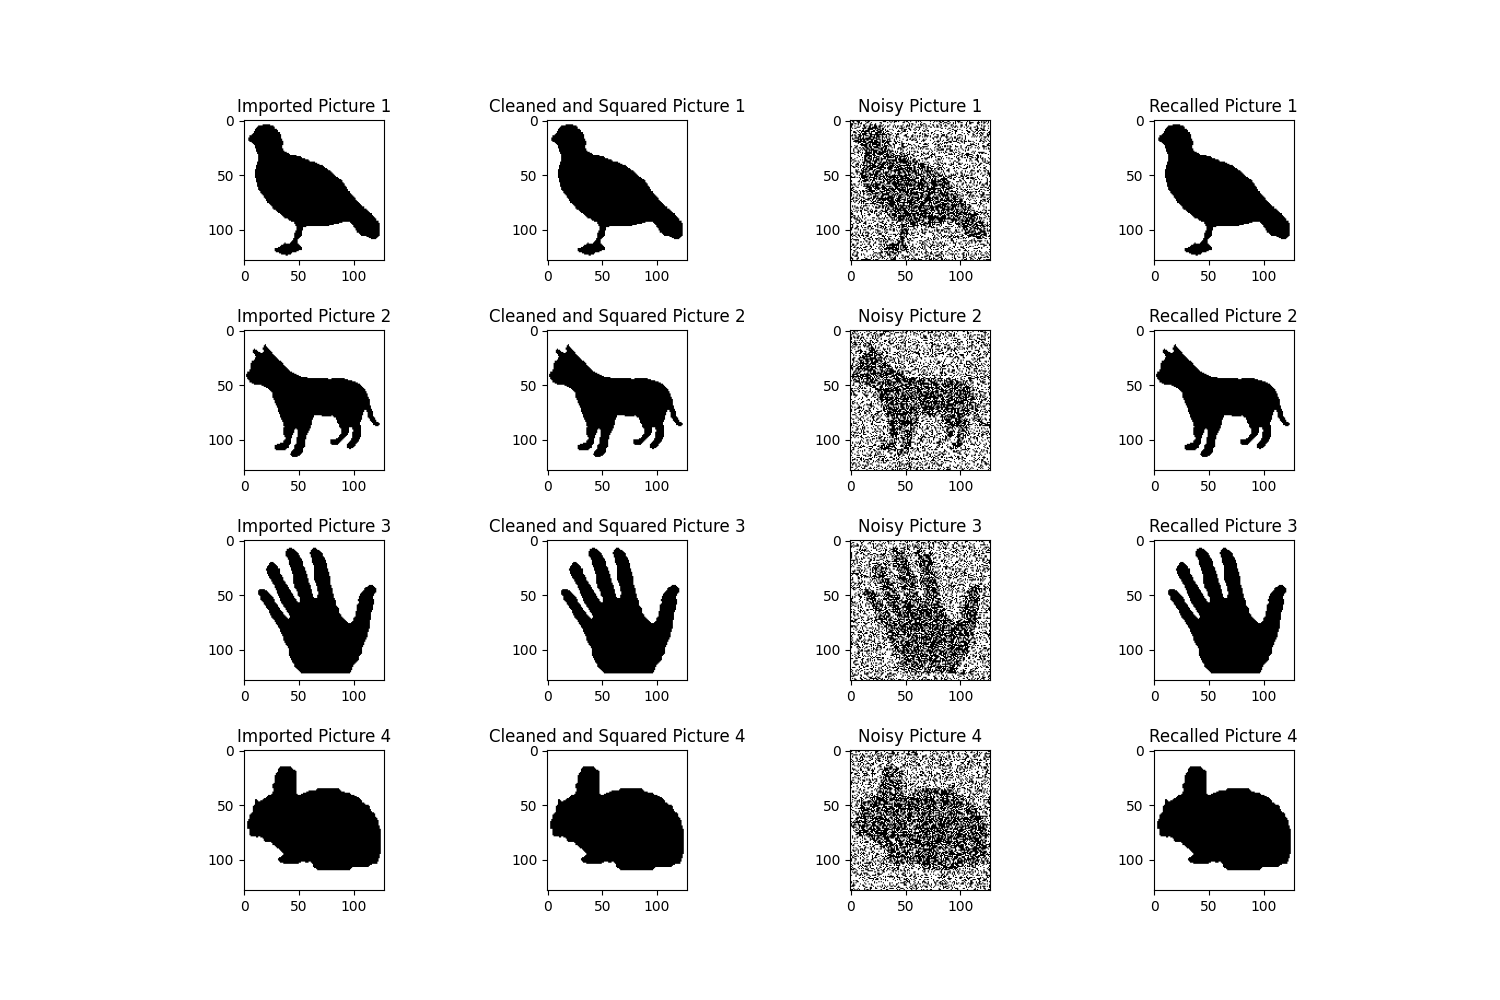
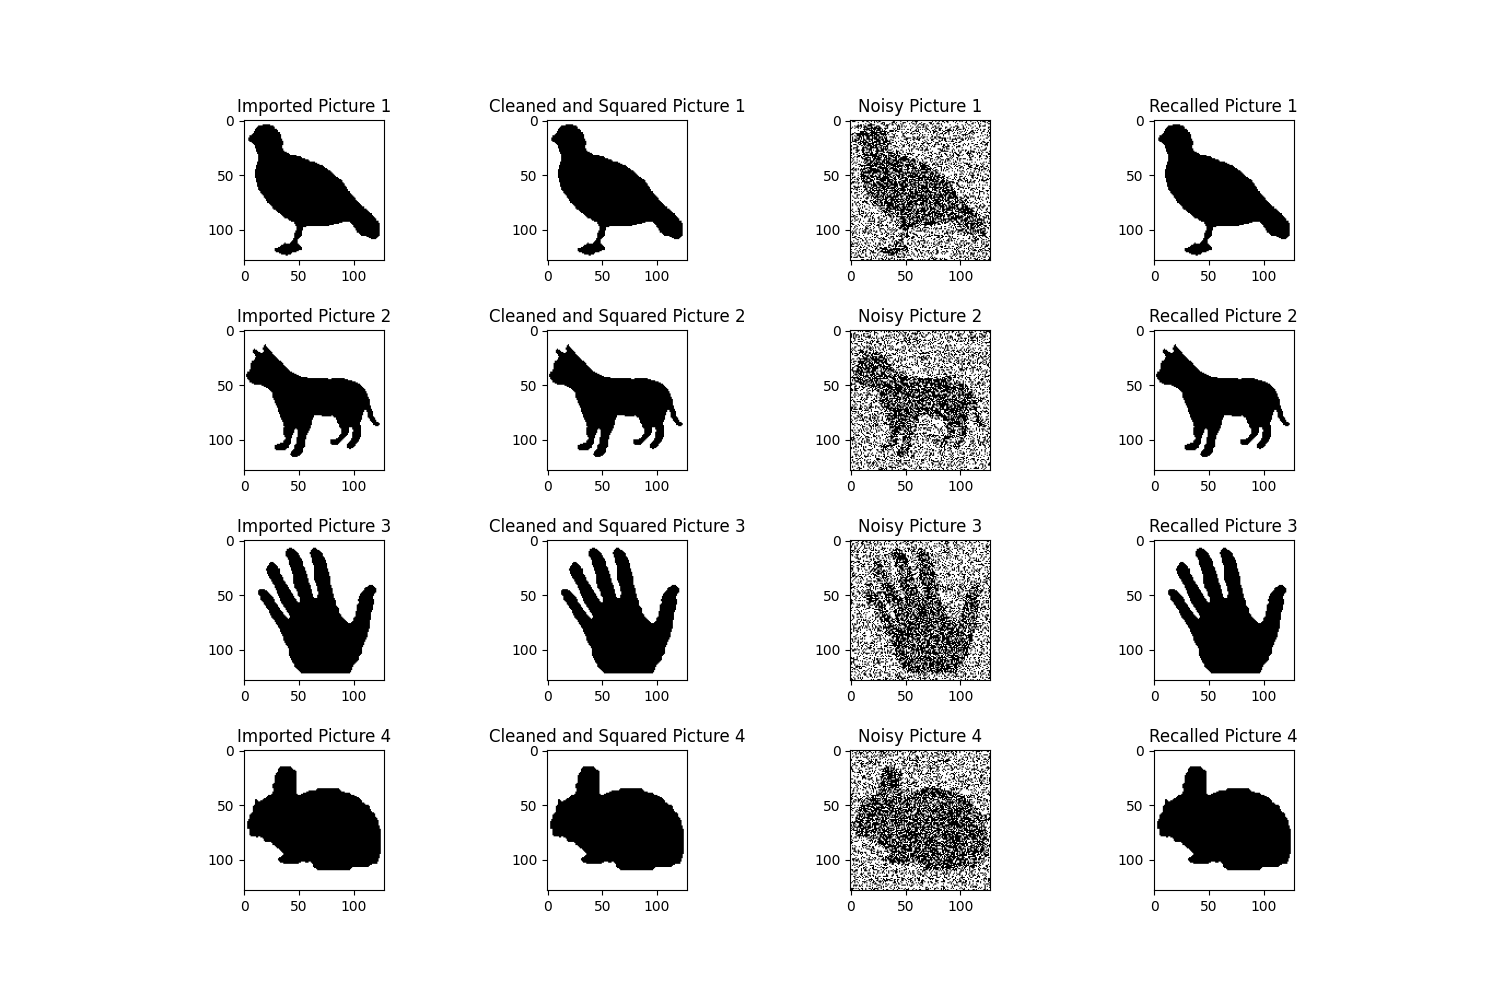
updated readme

diff --git a/hopfield.py b/hopfield.py
@@ -38,18 +38,19 @@ image = np.asarray(image_to_np('data/cat.png'))
 vector,noisyVec = imageGenerator(image)
 coefMatrix = trainer(vector)
 predictedVec = prediction(noisyVec,coefMatrix)
+
 plt.figure(figsize=(15,10))
 plt.subplot(1,4,1)
-plt.imshow(image)
+plt.imshow(image, cmap='gray')
 plt.title('imported picture')
 plt.subplot(1,4,2)
-plt.imshow(vector)
+plt.imshow(vector, cmap='gray')
 plt.title('cleaned and croped picture')
 plt.subplot(1,4,3)
-plt.imshow(noisyVec)
+plt.imshow(noisyVec, cmap='gray')
 plt.title('noisy picture')
 plt.subplot(1,4,4)
-plt.imshow(predictedVec)
+plt.imshow(predictedVec, cmap='gray')
 plt.title('recalled picture')
 plt.savefig('hopfield.png')
 plt.show()

diff --git a/README.md b/README.md
@@ -8,8 +8,11 @@
 The Hopfield neural network is a type of artificial neural network. This network structure comprises interconnected neurons, with each neuron being binary and capable of taking values of either +1 or -1. Patterns or memories are stored in the network by configuring the neuron states to represent desired patterns, and an energy function is employed to describe the network's state.Hopfield networks also provide a model for understanding human memory.
 
 ## Description
-A simple Hopfield neural network for recalling memories. The network is initially trained with a target image. The image is then corrupted with noise. The network then restores the target memory.
+A simple Hopfield neural network for recalling memories. The network is initially trained with a target image. The image is then corrupted with noise. The network then restores the target memory.Initially, acquisition and encoding of images into binary patterns, which serve as the fundamental units for storage within the Hopfield Neural Network. The network's architecture is designed to accommodate these patterns, allowing for the association of memories and efficient retrieval during recall.
 
+<img src="hopfield.png">
+<img src= "MultiHopfield.png">
+<img src="CoefficientMatrix.png">
 ## Installation Guide 
 
 ### Clone this repository
